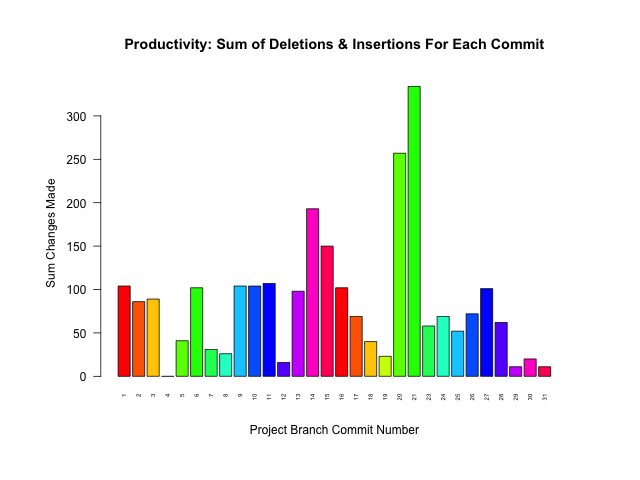
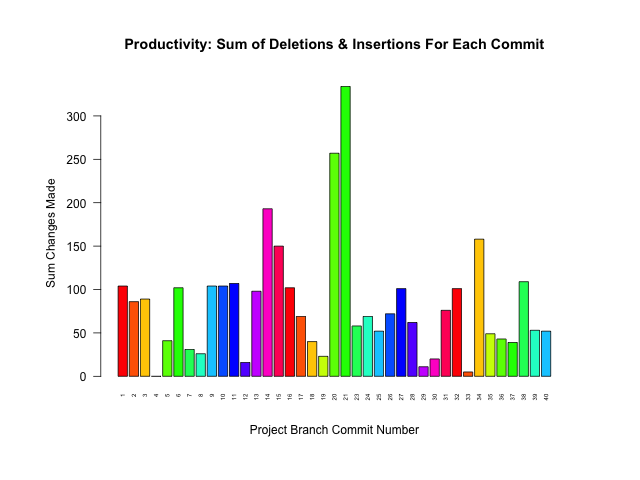
COMMIT #290

Changed region(s): [[0.1875, 0.1562, 0.875, 0.8438], [0.2812, 0.8125, 0.3125, 0.8438]]

diff --git a/README.md b/README.md
@@ -17,8 +17,8 @@ ProjectName::BranchName.data
 
 Project Name | Last Updated | # Commits | # Branches | Branches Merged
 :---|:---:|:---:|:---:|:---:
-[Algorithms_practice](https://github.com/pierremigeon/Algorithms_practice)                          |  2023-08-14  |  39   |  10  |  80%   (8/10)
-[commit_tracker](https://github.com/pierremigeon/commit_tracker)                                    |  2023-08-13  |  288  |  1   |  100%  (1/1)
+[Algorithms_practice](https://github.com/pierremigeon/Algorithms_practice)                          |  2023-08-14  |  40   |  10  |  90%   (9/10)
+[commit_tracker](https://github.com/pierremigeon/commit_tracker)                                    |  2023-08-14  |  289  |  1   |  100%  (1/1)
 [FASTQ_examiner](https://github.com/pierremigeon/FASTQ_examiner)                                    |  2023-07-28  |  80   |  4   |  75%   (3/4)
 [learn_some_C.Plus.Plus](https://github.com/pierremigeon/learn_some_C.Plus.Plus)                    |  2023-07-17  |  79   |  2   |  50%   (1/2)
 [libft](https://github.com/pierremigeon/libft)                                                      |  2023-06-05  |  30   |  2   |  50%   (1/2)

diff --git a/Algorithms_practice_project/readme.md b/Algorithms_practice_project/readme.md
@@ -1,1 +1,1 @@
-![test_image](https://github.com/pierremigeon/commit_tracker/blob/master/Algorithms_practice_project/Algorithms_practice::DFS.data_sum_barplot.png)
+![test_image](https://github.com/pierremigeon/commit_tracker/blob/master/Algorithms_practice_project/Algorithms_practice::master.data_sum_barplot.png)
